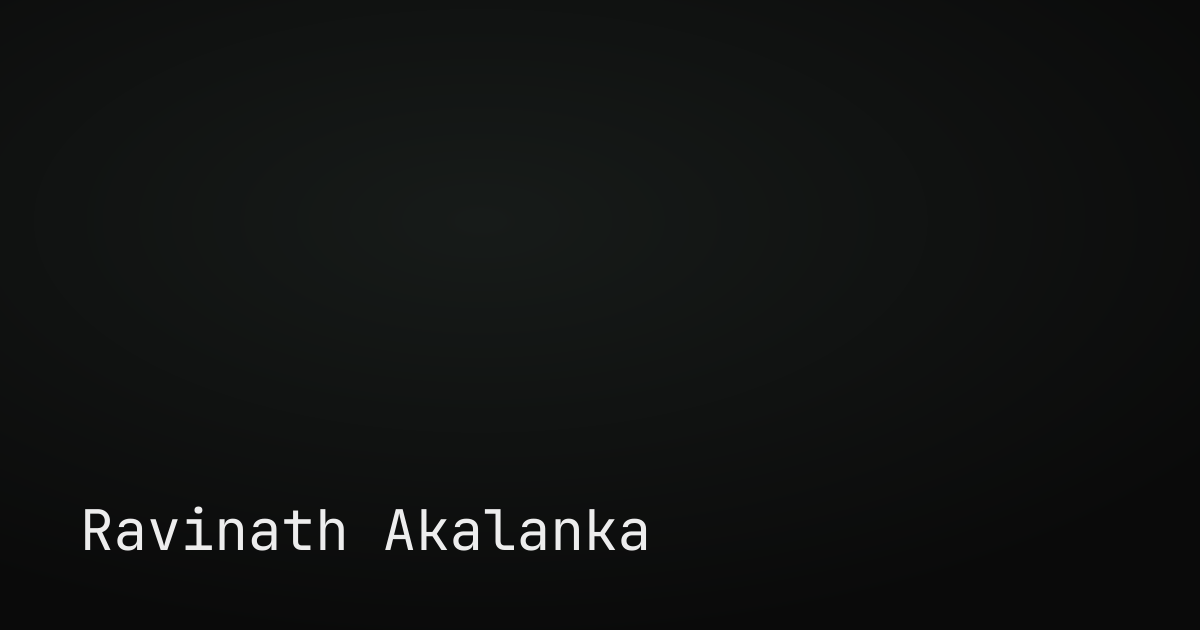
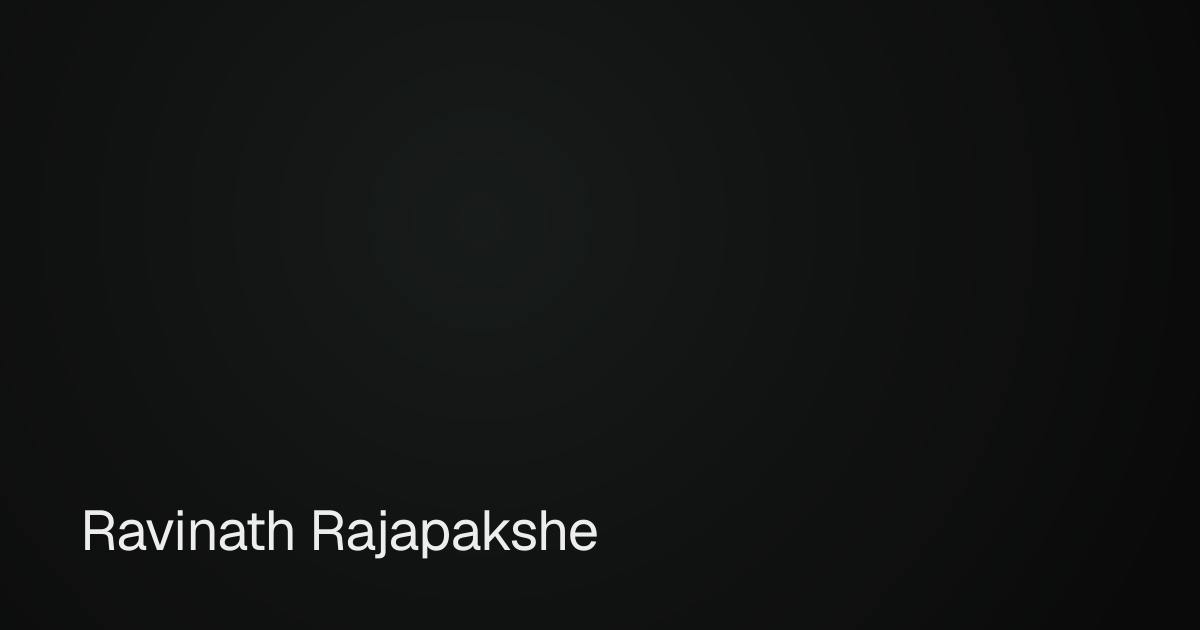
Update display name to Ravinath Rajapakshe
- Change name in profile.yaml and favicon title
- Regenerate Open Graph image
- Wrap IP address examples in inline code in internet-addressing post

Changed region(s): [[0.0617, 0.8143, 0.555, 0.8746]]

diff --git a/src/content/blog/internet-addressing.md b/src/content/blog/internet-addressing.md
@@ -5,7 +5,7 @@ date: 2024-11-12
 ---
 
 #### What is an IP Address?
-An Internet Protocol Address (IP Address) is a number divided by 3 periods, 192.168.1.1 is an example. Every device that is connected to a computer network has an IP address which serves two main purposes, to identify the network and identify the device itself.
+An Internet Protocol Address (IP Address) is a number divided by 3 periods, `192.168.1.1` is an example. Every device that is connected to a computer network has an IP address which serves two main purposes, to identify the network and identify the device itself.
 
 #### Versions of IP Addresses
 
@@ -15,9 +15,9 @@ IPv4 was the first version of IP Address, which has been in use since 1933.
 ##### Features of an IPv4 Address
 - IPv4 addresses use 32 bits
 - Number of possible IP addresses in IPv4
-	- 2^32 = 4,294,967,296 addresses
+	- `2^32 = 4,294,967,296` addresses
 - Uses the dotted decimal notation
-	- 192.168.1.1
+	- `192.168.1.1`
 
 ##### Parts of an IPv4 Address
 - Network identifier
